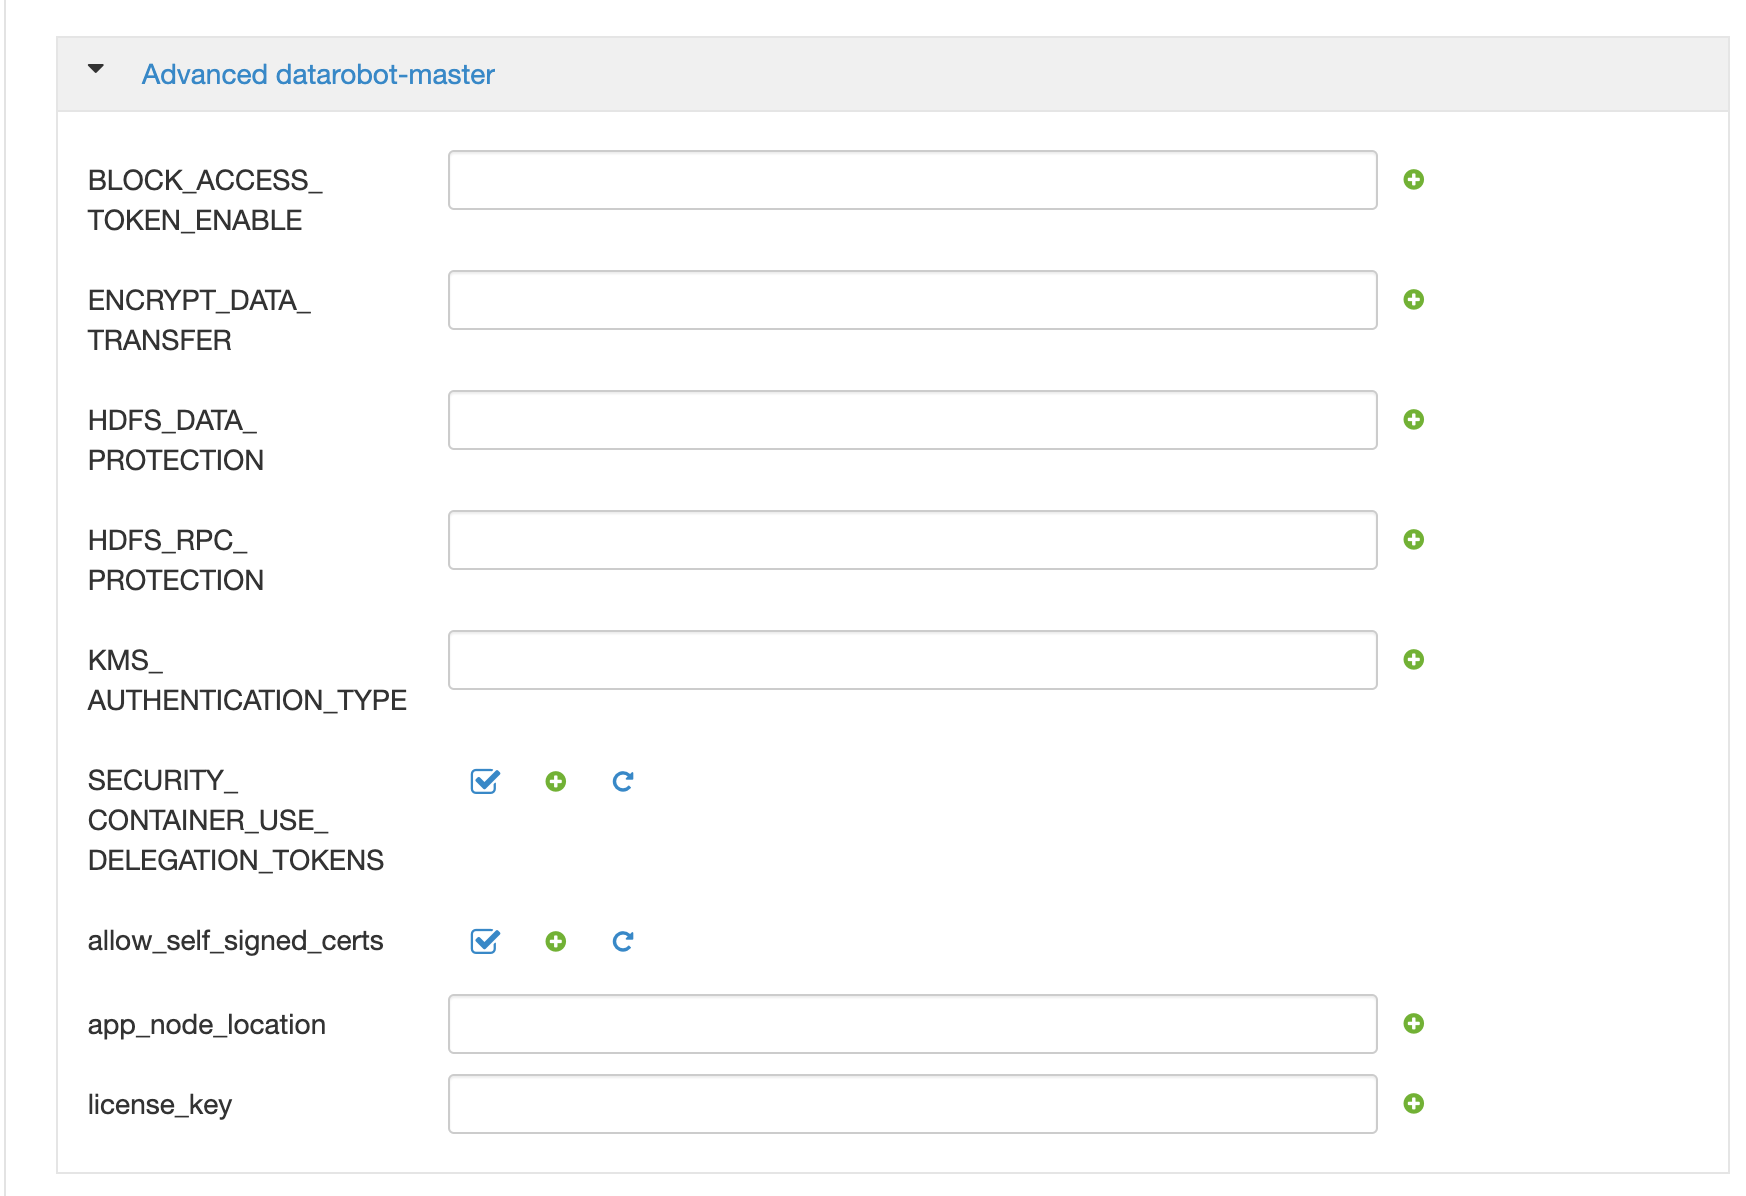
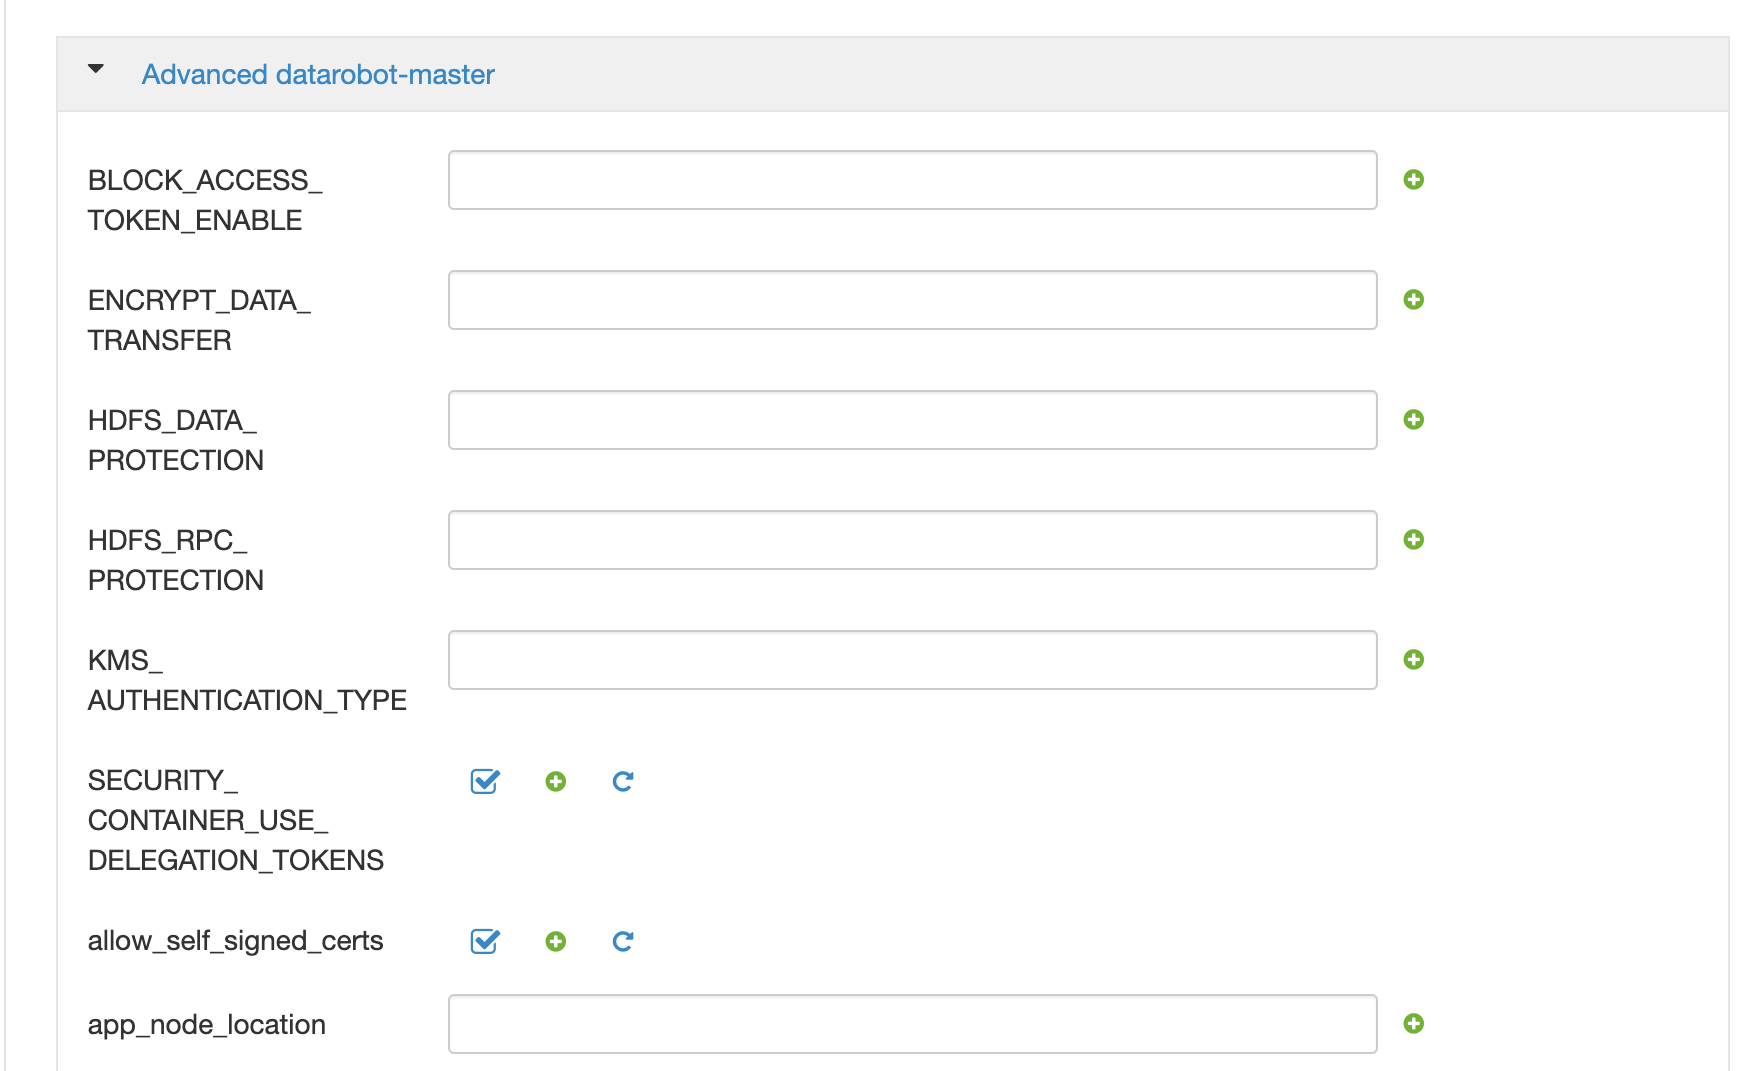
[CSS-485] Remove license key from Hadoop guides (#489)
* Remove license_key

* Remove mention of license key from Claudera\Ambari installation guide

diff --git a/managerless-hadoop/install-steps.md b/managerless-hadoop/install-steps.md
@@ -25,7 +25,6 @@ Export environment variables to launch datarobot.sh:
 ```bash
 export ZK_QUORUM=<zk_quorum>
 export DATAROBOT_PROVISIONING_HOST=<app_node_host>
-export LICENSE_KEY=<dr_license>
 export DATAROBOT_DIRNAME=<parcel_name>
 export PARCEL_PATH=<path_to_the_parcel>
 export DATAROBOT_HOME=$PARCEL_PATH
@@ -47,7 +46,7 @@ export HADOOP_CONFIG_ENCRYPTION_KEY=defaultkey
 Please use `screen` (or any similar tool) to run `datarobot.sh` in the background,
 passing required parameters as follows:
 ```bash
-./datarobot.sh start_master $LICENSE_KEY $DATAROBOT_PROVISIONING_HOST datarobot
+./datarobot.sh start_master $DATAROBOT_PROVISIONING_HOST datarobot
 ```
 
 This will start the application master and restart services on the

diff --git a/installation/ambari-install.md b/installation/ambari-install.md
@@ -228,7 +228,7 @@ http://[IP OF SIMPLE WEBSERVER]:[SERVER PORT]/DataRobot-[PARCEL VERSION].parcel
 
 <img src="images/ambari-parcel-url.png" alt="" style="border: 1px solid black;" width="600"/>
 
-7. Set up all required parameters (App Node Location, License) in the `datarobot-master`
+7. Set up all required parameters (App Node Location) in the `datarobot-master`
 configuration:
 
 <img src="images/ambari-required-params.png" alt="" style="border: 1px solid black;" width="600"/>

diff --git a/installation/cloudera-install.md b/installation/cloudera-install.md
@@ -323,9 +323,6 @@ available DataNode using the same procedure.
 
 * Click **OK** and **Continue**.
 
-* Click in the **DataRobot License Key** text field and paste in the text from
-your DataRobot license key.
-
 * Click in the **App Node Location** text field and key in the IP or DNS of application server. Example: http://10.0.0.1
 
 * Edit container memory and vcores settings as appropriate for your cluster.
